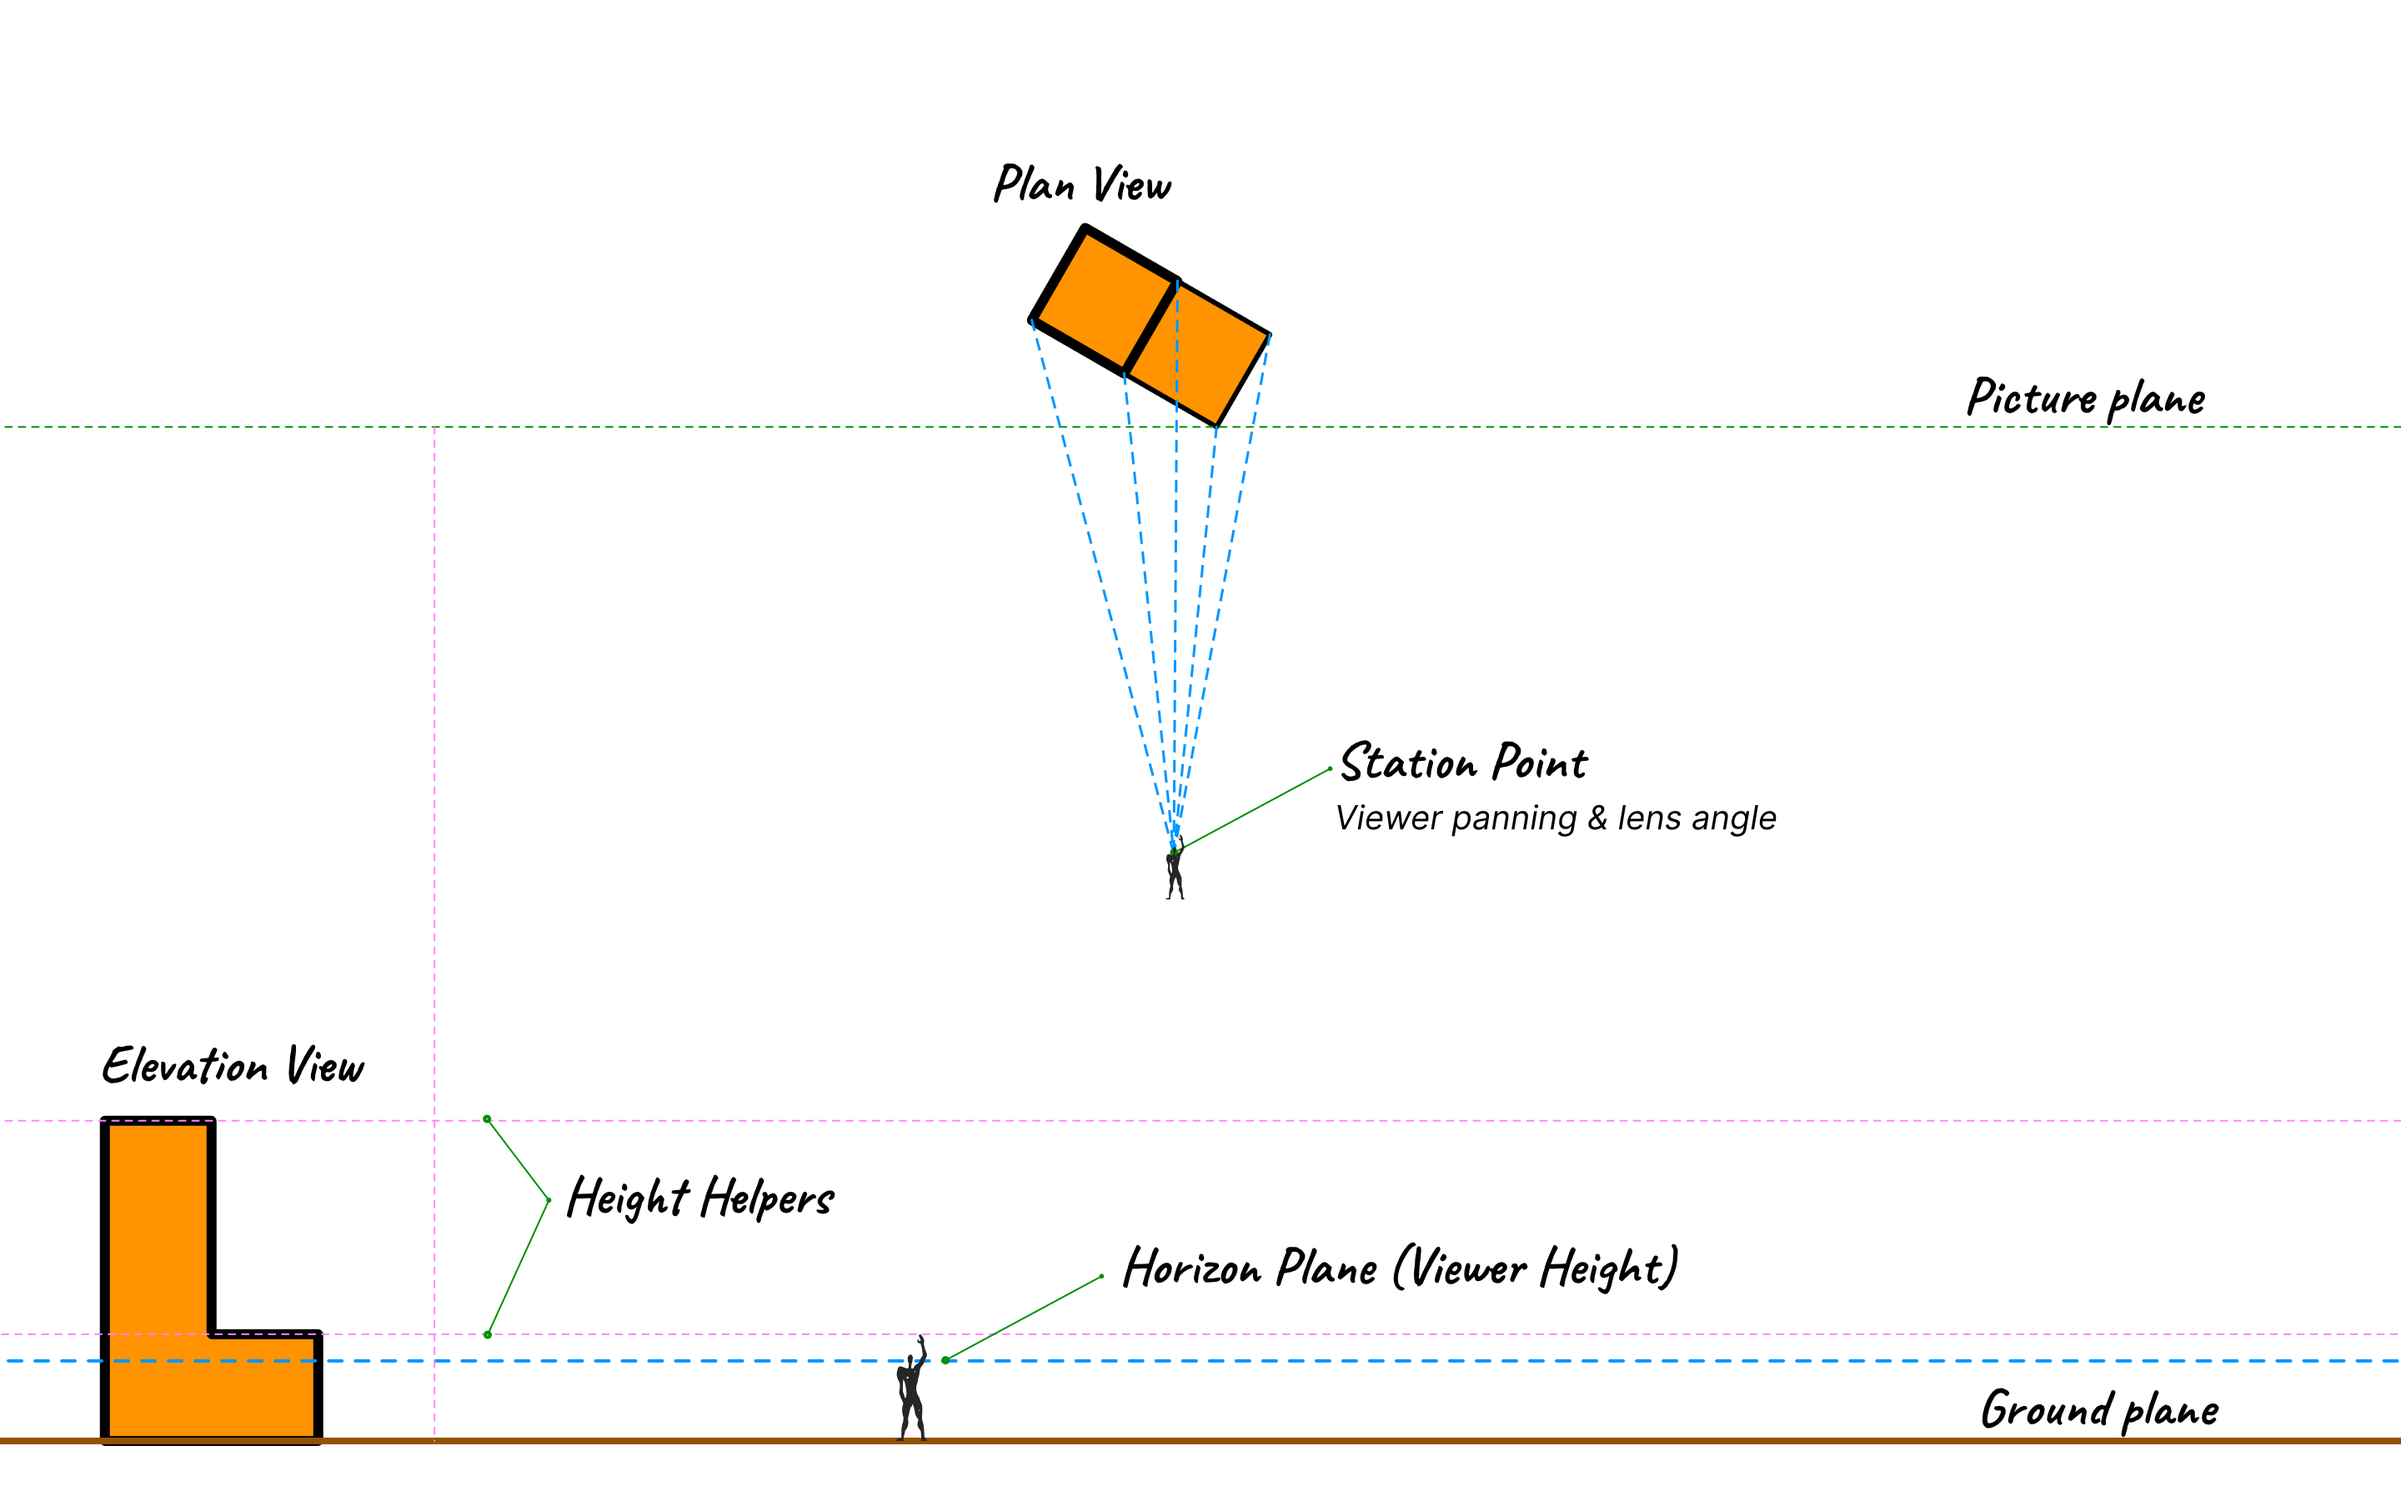
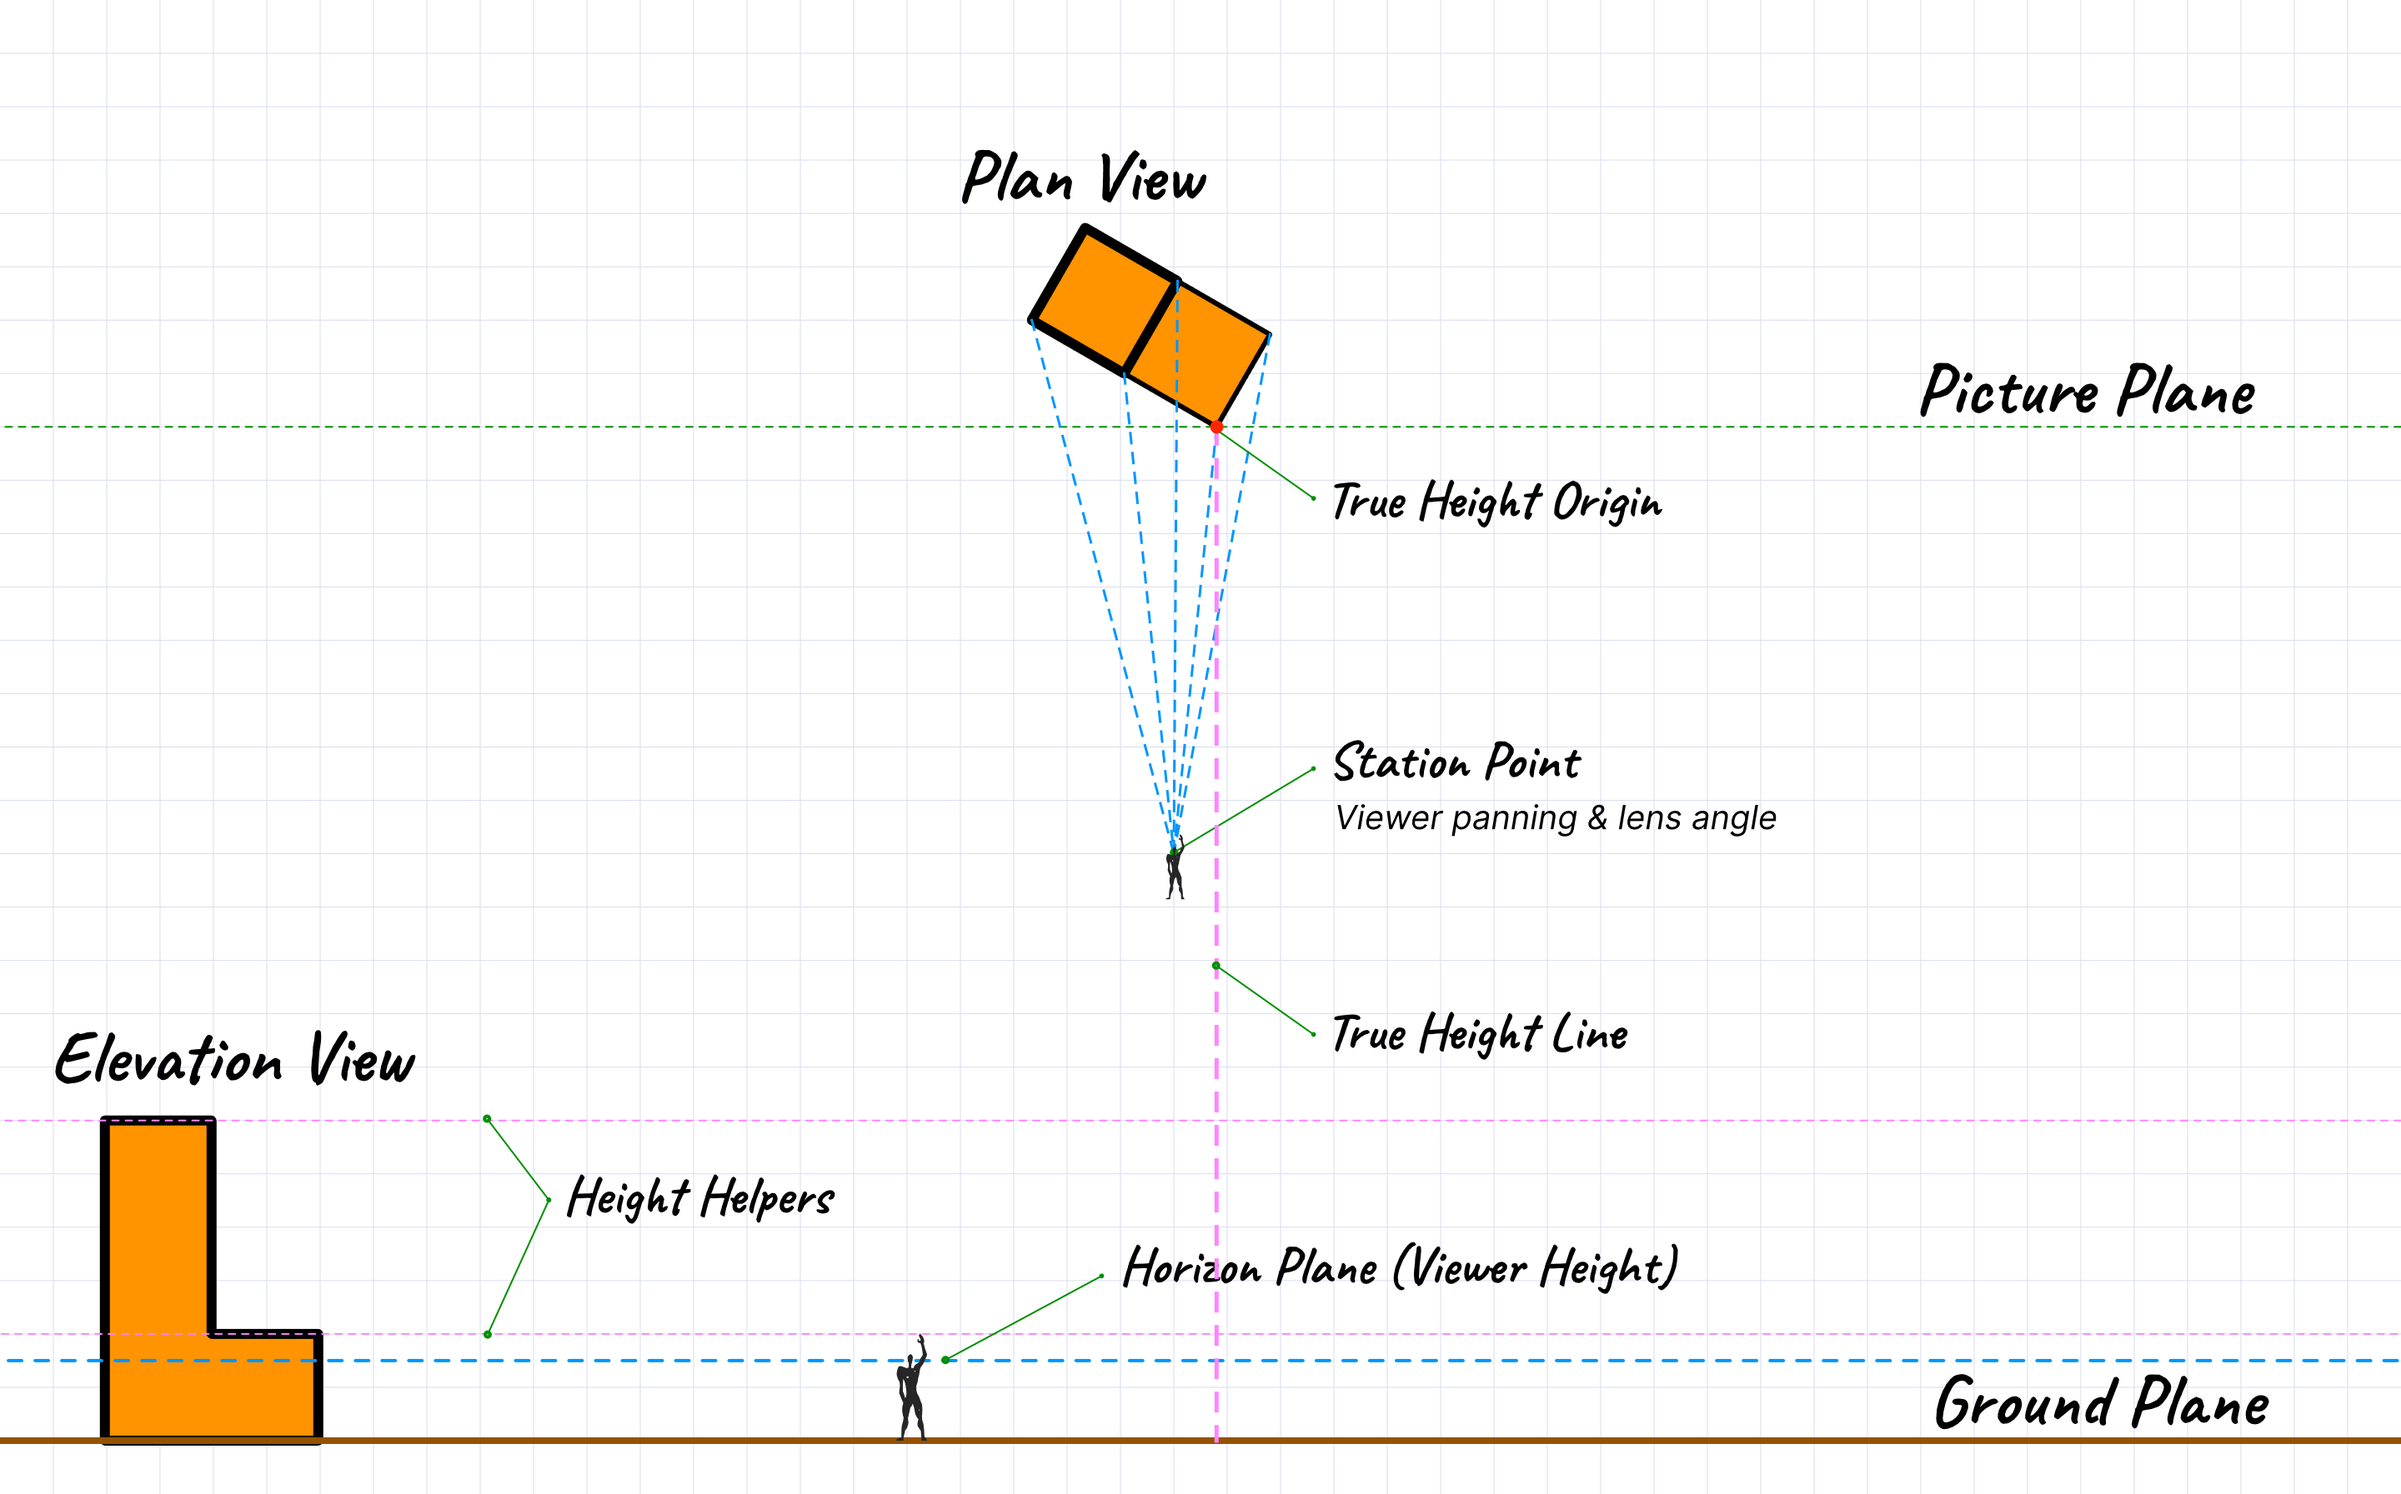
Add bullets

diff --git a/content/posts/How to perspective.md b/content/posts/How to perspective.md
@@ -44,17 +44,17 @@ Before we get started – in the image below you can see how a finalized layout 
 
 ## Let's Start
 
-To get our perspective drawing going we'll need 2 views – a *Plan*[^1] and an *Elevation*[^2]. The elevation view will help us find the heights of an object and the plan view will help us with everything else. 
+To get our perspective drawing going we'll need to set object location and orientation + the viewers height and viewing angle. We'll do that using 2 views – a *Plan View*[^1] and an *Elevation View*[^2]. The elevation view will help us find the heights of an object and the plan view will help us with everything else. We'll position them at 2 sides of the drawing layout and in the middle we'll draw our perspective.
 
-- The *Elevation view* goes on the *Ground Plane* [^3] – Choose a view the holds most of the information in the clearest way
-- This is the time to place the *Horizon Plane* [^4] – that is the viewer height. In this drawing, the object is roughly 3 times the size of the viewer. 
+1. The *Elevation view* goes on the *Ground Plane* [^3] – Choose a view the holds most of the information in the clearest way
+2. This is the time to place the *Horizon Plane* [^4] – that is the viewer height. In this drawing, the object is roughly 3 times the size of the viewer. 
 > Changing the viewer height will not change the output size, but the viewing angel. To change the output size you'll to use need smaller views.
-- Form the *Elevation view* you can pull out the *Height Helpers* [^5]
-- The Plan view goes on the top of the layout, adjacent to the *Picture Plane* [^6]. 
-  - Make sure to leave enough space for the next step
-  - Rotating the plan view will result with a rotated 3d view
-- Now let's place the *Station Point* [^7]. I'll place it smack in the middle for a mild perspective with a slight pan to left. 
-- I'll keep the *Plan* view edge tangent to the *Picture Plane*, this point will 
+3. Form the *Elevation view* you can pull out the *Height Helpers* [^5]
+4. The *Plan View* goes on the top of the layout, adjacent to the *Picture Plane* [^6]. Two things to keep in mind:
+    - Make sure to leave enough space for the next step
+    - Rotating the plan view will result with a rotated 3d view
+5. Now let's place the *Station Point* [^7]. I'll place it smack in the middle for a mild perspective with a slight pan to left. 
+6. I'll keep the *Plan View* edge tangent to the *Picture Plane*, this point will crossing is the *True Height Origin* and will produce the *True Height Line*, that in conjunction with the *Height Helpers* will allow us to build the object precisely.
 
 ![The Basic layout](./perspective/Basic_layout.png)
 *The Basic layout*
@@ -119,7 +119,8 @@ The station point is the distance of the viewer from the object. The closer the 
 
 [^6]: ***Picture Plane*** – This is where the magic happens – where we flip the 2D and the 3D worlds 😲 My recommendations; place it in the front or middle of the shape – meddling with it will produce undesirable outputs 
 
-[^7]: ***Station Point*** – This will produce the perspective affect and they panning left or right. In a counter intuitive kinda way, having this point closer or further away will not make the object bigger or smaller – but like a camera lens – it will make the view *Wider* or *Narrower*.  
+[^7]: ***Station Point*** – This will produce the perspective affect and they panning left or right. In a counter intuitive kinda way, having this point closer or further away will not make the object bigger or smaller – but like a camera lens – it will make the view *Wider* or *Narrower*. ![Station Point](./perspective/Station_Point.png)
+
 - ***Vanishing Points*** – This points will derive form your setup – You'll figure them up by using the *VP Helpers* and *VP Crossing*
 - ***Picture Lines*** – Lines you'll draw from the *Station Point* to the object's edges, their crossing (***Picture Plane Crossing***) with the *Picture Plane* will produce the *Projection Lines* and the *True Height Origin*
 - ***Projection Lines*** – Parallel lines you'll draw from the *Picture Plane Crossing* to the *Ground Plane*.  
